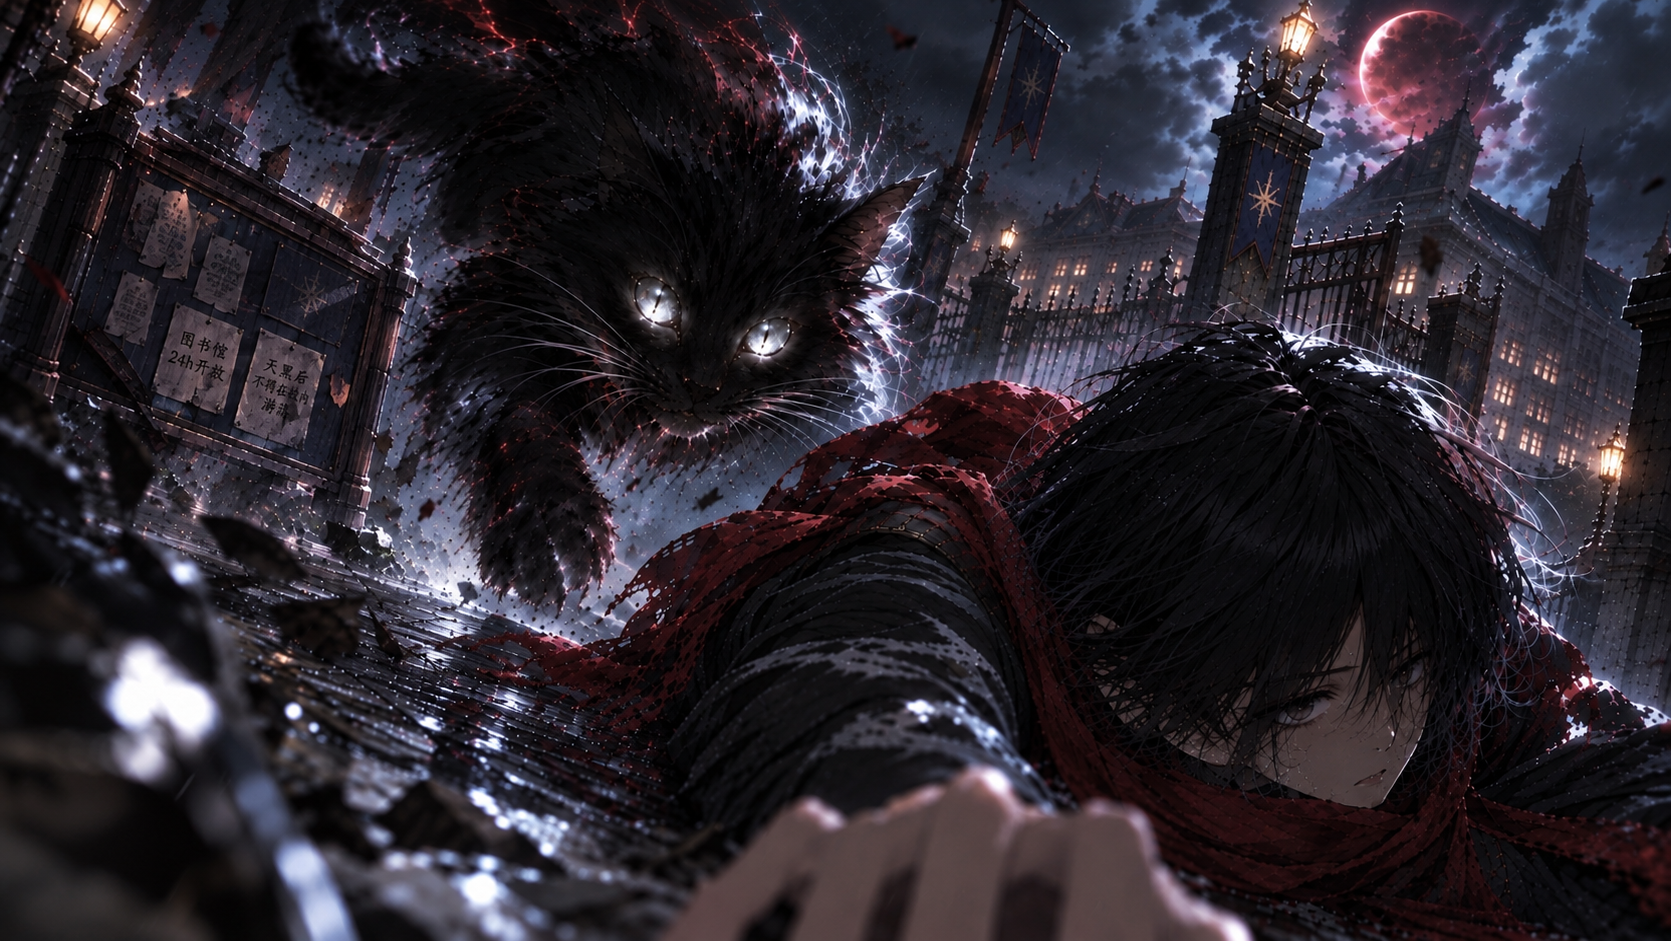
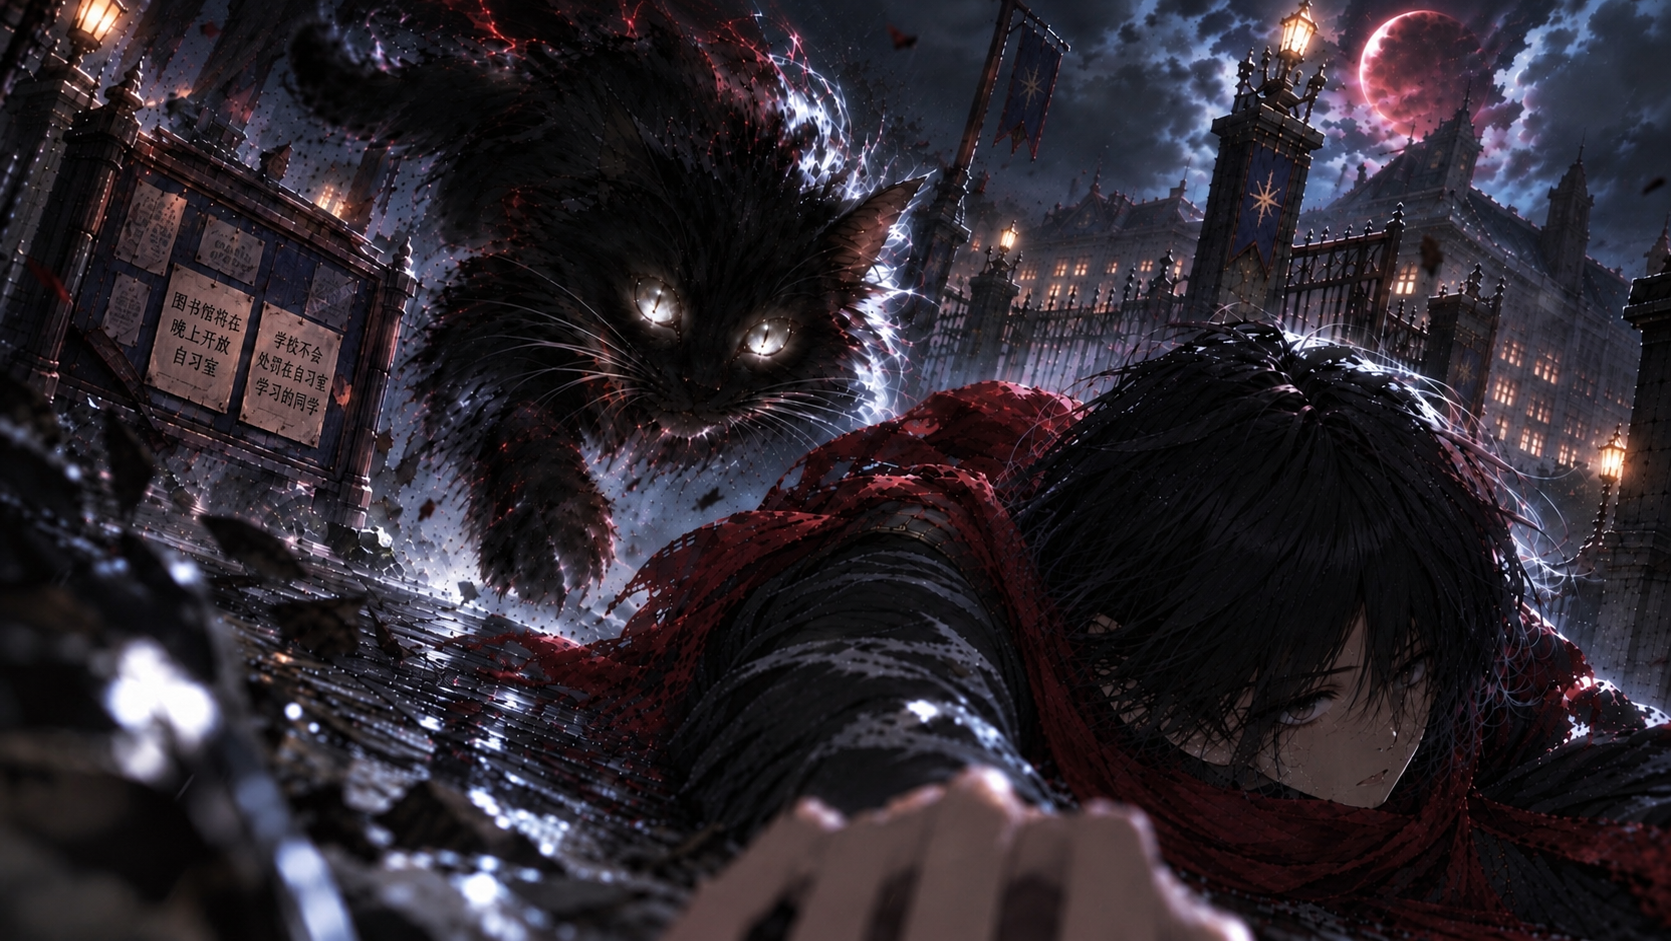
assets: replace chapter two art from delivery 4 and enable decision coin

diff --git a/docs/素材接入_4zip_20261025.md b/docs/素材接入_4zip_20261025.md
@@ -1,0 +1,35 @@
+# 4.zip 素材替换与调用说明
+
+日期：2026-10-25。基线：`0a600ec`（已先同步队友最新 main）。包内5张有效PNG、5份macOS附加信息；源图字节保留，忽略附加信息。散列、尺寸和替换前版本见 `art/catalogs/ch2_art_drop_4_20261025.json`；旧版可从Git父提交恢复。
+
+## 文件对应
+
+| 包内文件 | 项目文件 | 处理与当前调用 |
+| --- | --- | --- |
+| cg更改.PNG | `art/cg/ch2_chase_failure.png` | 替换旧追逐失败CG，现有首段追逐/选路失败引用直接生效；对外End5，内部`end4_iron`不改 |
+| 日记.PNG | `art/props/ch2_diary_written.png` | 替换含转学和固定10月日期的旧图；`ch2_diary.json`首次/重复阅读均改用此图，保留三屏原文和原有确认顺序 |
+| 公告栏.PNG | `art/props/ch2_notice_board.png` | 替换旧24h公告栏；`ch2_notice.json`调用新版。图中只有两条校规，第三条“天黑后不得在校内游荡”仍由原有阅读框显示，不能删 |
+| 决策币.PNG | `art/props/ch2_decision_coin_faces.png` | 原始1774×887透明正反合图，原字节保留 |
+| 决策币.PNG 左半 | `art/item/charm.png` | Godot按`[0,0,887,887]`无损提取YES面，替换旧御守图。解除背包对charm图标的临时隐藏，保留`item/charm`存档ID和“决策币”显示名 |
+| 决策币.PNG 右半 | `art/item/decision_coin_no.png` | Godot按`[887,0,887,887]`无损提取NO面，供反面特写或后续调用；不登记第二个物品、不新增投币玩法 |
+| 扔决策币.PNG | `art/cg/ch2_coin_throw.png` | 新增，不能覆盖“教室躲藏”CG。挂入现有`ch2_classroom_window/throw`：CG出现→原有台词→淡黑→收CG→原有夜市转场 |
+
+两张硬币单面均887×887 RGBA，已逐像素核对与原合图对应区域一致。未重画、重采样或改变正反文字。空白日记、空白公告栏仍保留原图，不把带字图写进`blank`文件；教室桌上原有空白书本贴图和地图几何不改。
+
+## 接入范围与仍需验收
+
+本次只更新上述图片、既有事件的素材引用和背包图标。对白、选择、结局、获得/消耗状态、追逐规则及所有地图JSON保持原样。抛币CG为一张完整静态画面，已经能用于现有抛币剧情；不代表窗框、室内人物、可动硬币三层或抛币动画已交。图书馆猫/地毯分层、独立血迹层仍不在本包内。
+
+图片接收、资源导入和自动回归不替代游戏中的字号、构图、遮挡及演出手感验收；新版日记与公告栏的完整正文继续由阅读框保证可读。
+
+## 本轮策划约束
+
+制作期仍D1—D6，后三天润色。取消每天两小时和按分钟排产，由用户确定推进目标。今天仍执行`docs/每日策划/2026-10-25_图书馆后段策划/程序任务.md`与`美术任务.md`，本次不重排这两份任务，后续收到团队实际完成情况再规划。最新约束已写入`docs/项目进度.json`，覆盖旧技能/历史计划的120分钟默认值。
+
+## 本轮验证
+
+- Godot 4.7.2编辑器导入退出0，7个目标贴图加载与尺寸检查通过。
+- 5张原图散列保持；YES/NO两面与源合图对应区域逐像素一致。
+- 数据自查通过：14张地图、32份剧情、7个结局、11件物品；游戏4664/4664通过。
+- 第一章真窗口烟测通过，使用独立测试存档；没有声称完整第二章实走通过。
+- 未改任何地图JSON，今天两份已布置任务单保持原样。

diff --git a/docs/交接须知.md b/docs/交接须知.md
@@ -8,6 +8,8 @@
 
 ## 一、状态快照（2026-10-25 更新，每次收工改这一块）
 
+- **4.zip新版美术替换与策划约束（2026-10-25）**：先同步main至0a600ec；5张原图对应新版日记、公告栏、End5追逐CG、决策币合图及抛币静态CG。已替换旧图并更新日记/公告栏/窗边事件引用，决策币按原像素拆YES/NO并启用背包charm图标，保留存档ID。公告栏第三条宵禁规则仍在阅读框，抛币CG不冒充三层动画；猫/地毯、血迹及窗边可动分层仍缺。文件与验收见`docs/素材接入_4zip_20261025.md`和art目录。导入、贴图7/7、数据14/32/7/11、游戏4664/4664及第一章真窗口烟测通过，第二章完整实走待验。用户取消每天两小时/120分钟排产，制作D1—D6不变，由用户定目标；最新约束在根AGENTS和进度账，今日程序/美术任务单不重排。
+
 - **地图编辑器几何分离（2026-10-25）**：画布绿框及「选择与尺寸」数值只改交互区；红框只改碰撞；旧的地图框选贴图工具已移除。贴图精确宽高、等比缩放、背景图像素比例1:1复位集中在「视觉部件与变换」，这些视觉变换保持交互区和碰撞的世界范围不变。场景树逐物件眼睛按钮只切换编辑器本机画布可见性，地图数据及游戏渲染不受影响。插件全量测试`4442/4442`、游戏测试`4664/4664`、数据自查（14图/32剧情/7结局/11物品）通过；SubViewport控件回归通过，编辑器实机操作仍待用户验收。修改时保留了主工作区已有的`school_gate.json`、`school_yard.json`未提交改动。
 - **第二章路线实现已推送（2026-10-25）**：提交`9b56f8f8dd1bd6e5ee461a9b118c80e3f03f8d8c`经HTTPS推送到GitHub `main`，随后实时查询并fetch核对，`main`与本地`origin/main`完整SHA一致。包含校门至图书馆后段、个人锚点/回溯、追逐与夜市B交付等路线实现及测试；走廊保持删除。数据自查通过（14图/32剧情/7结局/11物品），Godot全量测试`4664/4664`通过；第二章真窗口可玩路线仍待用户实走，不能以自动测试替代。`school-library-implementation`中的177项地图编辑器/素材清理未合入；`.codex`本地配置残留仍未跟踪且未推送。
 

diff --git a/AGENTS.md b/AGENTS.md
@@ -3,7 +3,7 @@
 **先读 `docs/交接须知.md`** —— 一屏半，含状态快照、阅读顺序、验证命令、红线、踩坑 Top 12。
 读完它就够开工，不用通读代码。
 
-**每日策划与分工**：用户要求“每日策划案”“今天做什么”“更新任务进度”或重排本团队任务时，自动读取并使用 `skills/if-daily-plan/SKILL.md`；先更新 `docs/项目进度.json`，再按每天120分钟产出可验收分工。用户报告已做完但尚未交GitHub的工作记为制作完成、待交付/合入验收，不重新派制作；不要把上日计划当上日实绩。日常代码修复和单纯剧本文稿不触发这个技能。
+**每日策划与分工**：用户要求“每日策划案”“今天做什么”“更新任务进度”或重排本团队任务时，自动读取并使用 `skills/if-daily-plan/SKILL.md`；先更新 `docs/项目进度.json`，再按其中最新约束产出可验收任务。2026-10-25用户取消每天两小时/120分钟排产，制作D1—D6保留，由用户确定推进目标；此项覆盖技能及历史计划的默认分钟限制。今天以`docs/每日策划/2026-10-25_图书馆后段策划/程序任务.md`与`美术任务.md`为已布置任务，收到实际完成反馈后再规划。用户报告已做完但尚未交GitHub的工作记为制作完成、待交付/合入验收，不重新派制作；不要把上日计划当上日实绩。日常代码修复和单纯剧本文稿不触发这个技能。
 
 三条硬规矩：
 
